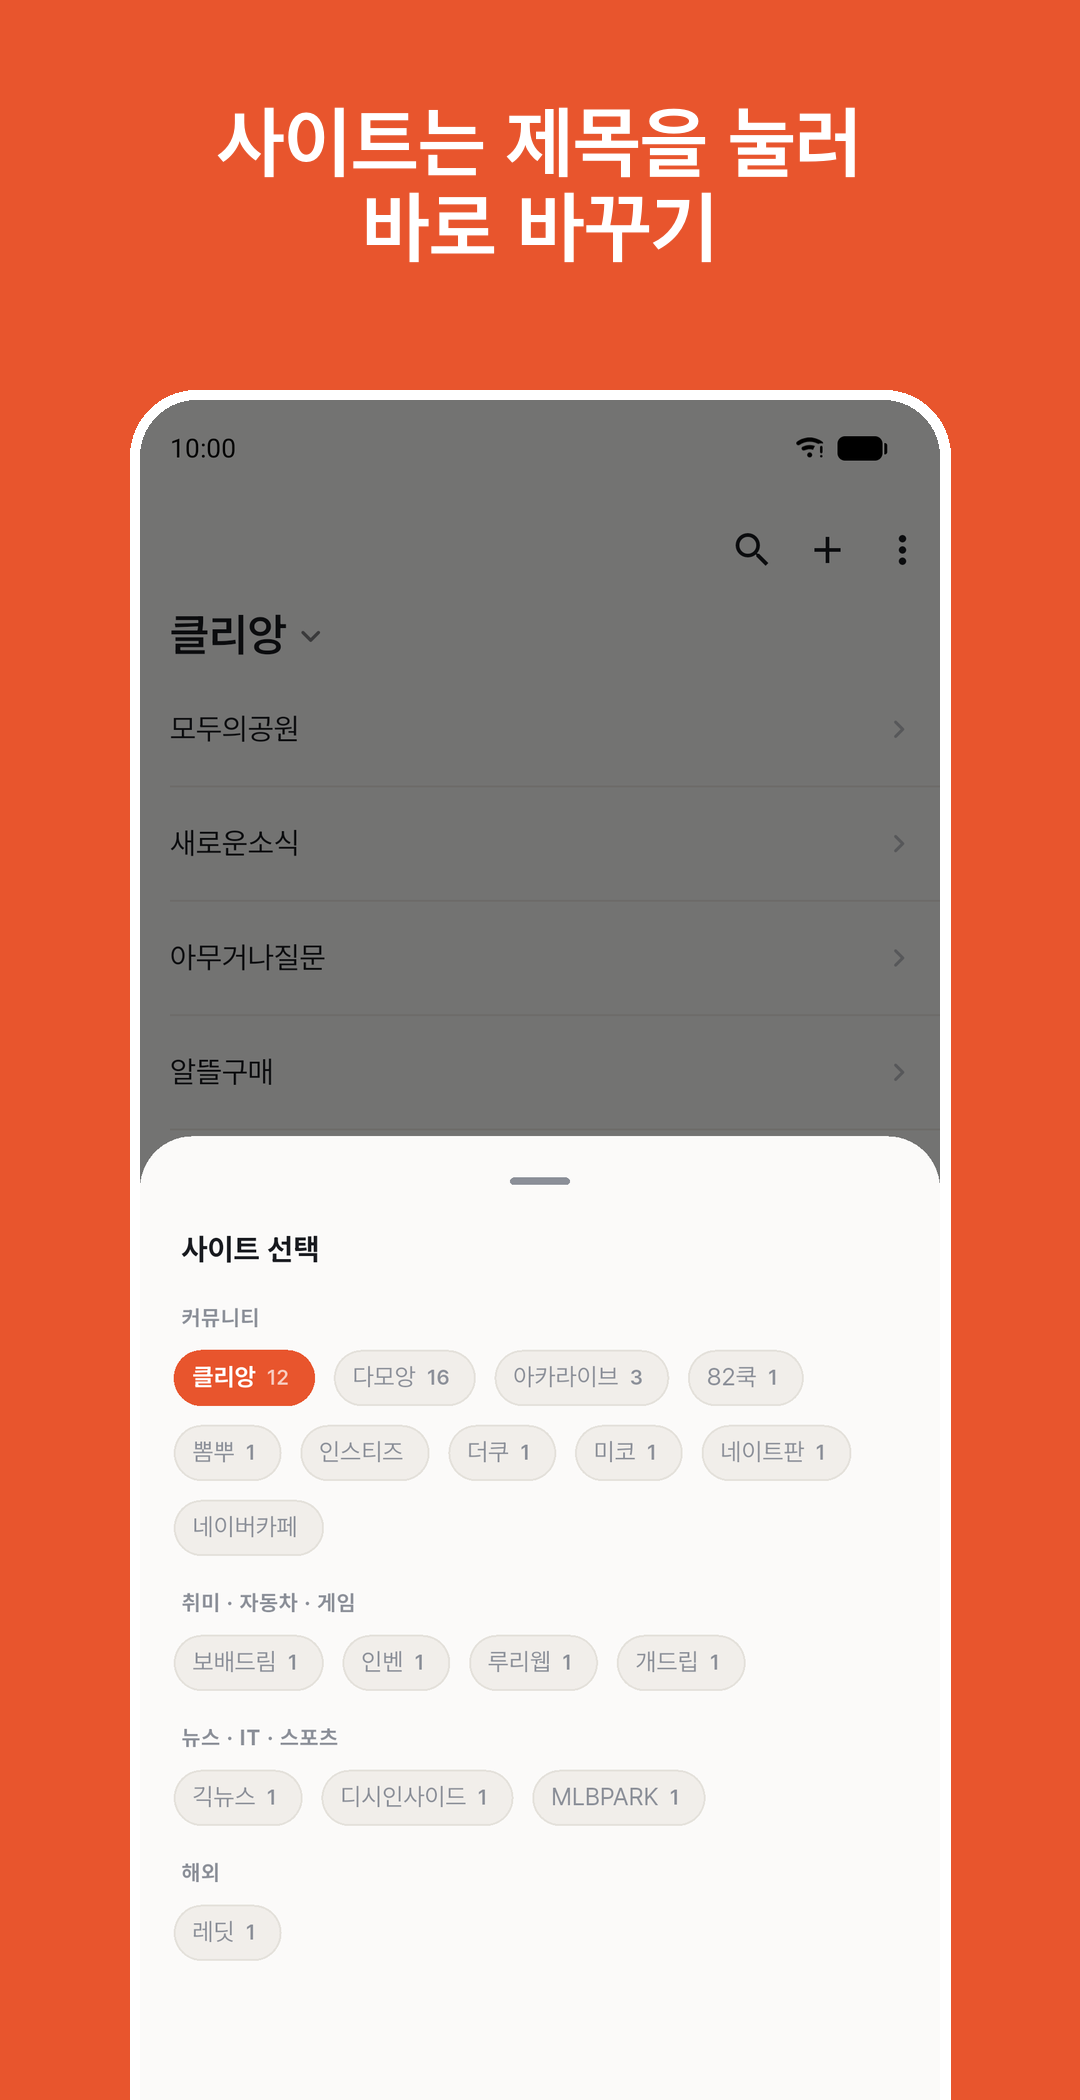
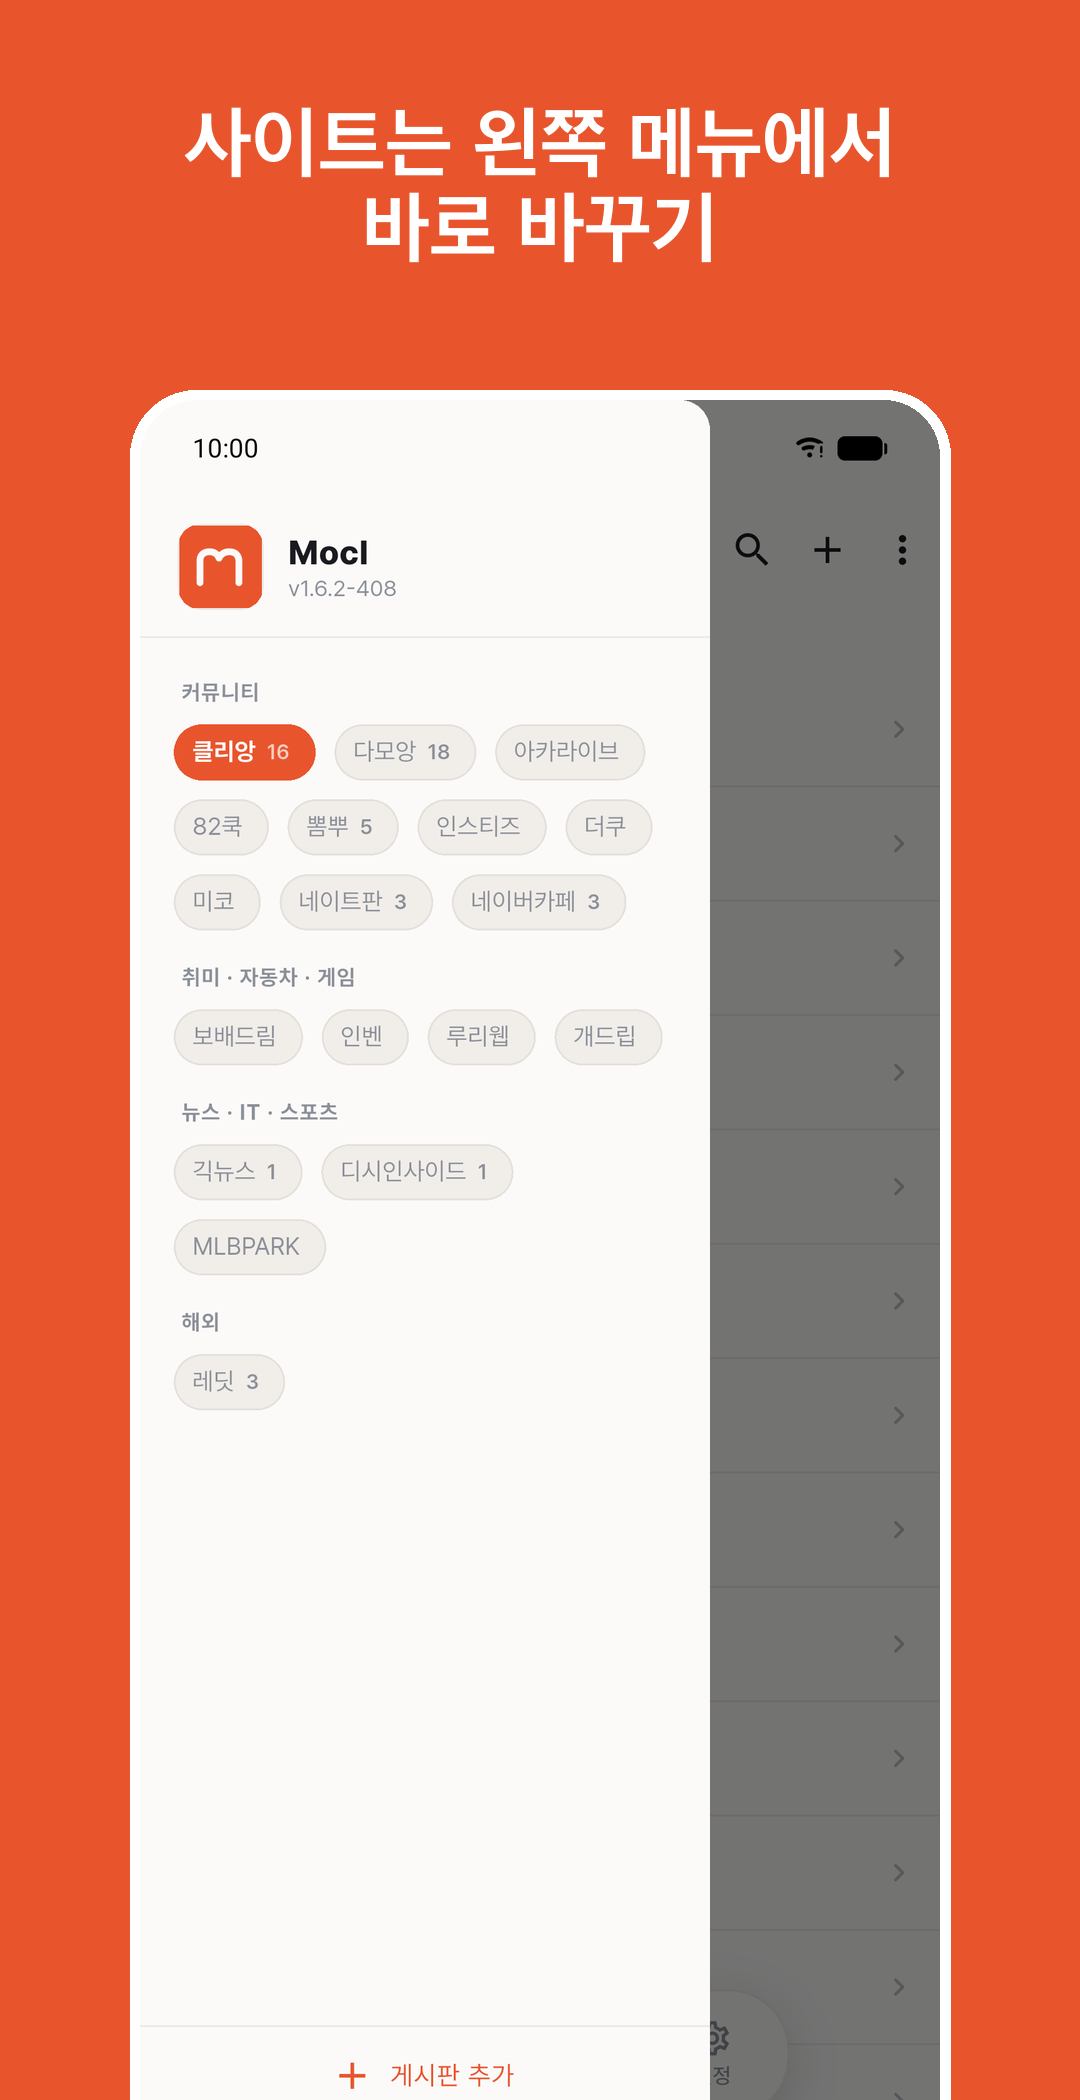
chore(store): 스토어 스크린샷 · 설명을 지금 화면에 맞춘다
- 휴대폰 6: 사이트 시트 → 왼쪽 드로어("사이트는 왼쪽 메뉴에서 바로 바꾸기")
- 휴대폰 2(지금 이슈): 하단 탭 스크랩 → 보관함
- 휴대폰 7 · 태블릿 4(게시판 담기): 뒤 화면을 메뉴 버튼 앱바로
- 설명: 아래 탭의 스크랩 → 보관함(스크랩 + 최근 본 글), 사이트는 왼쪽 메뉴에서 바꾼다
- README: 지금 이슈 진입 경로를 하단 탭으로 고친다

diff --git a/README.md b/README.md
@@ -272,7 +272,7 @@ flowchart LR
 | 기능 | 내용 | 앱 |
 |---|---|---|
 | 원격 설정 | 사이트별 요청 UA 를 앱 업데이트 없이 바꾼다. 부팅 땐 저장된 값을 쓰고, 새 값은 **다음 실행부터** 적용 | `features/remote_config/` |
-| 이슈 레이더 | 11개 커뮤니티 베스트 · 자유게시판을 5분마다 모아 비슷한 제목끼리 묶고, 여러 커뮤니티에 걸친 화제를 점수순으로 보여 준다 | `features/issue_radar/` (드로어 → 지금 이슈) |
+| 이슈 레이더 | 11개 커뮤니티 베스트 · 자유게시판을 5분마다 모아 비슷한 제목끼리 묶고, 여러 커뮤니티에 걸친 화제를 점수순으로 보여 준다 | `features/issue_radar/` (하단 탭 → 지금 이슈) |
 | 키워드 알림 | 담은 게시판에 키워드를 걸면 서버가 3분마다 새 글을 보고, 제목이 맞으면 푸시. 누르면 그 글 상세로 이동 | `features/keyword_alerts/` (설정 → 키워드 알림, 목록 앱바 종 버튼) |
 
 ### API
